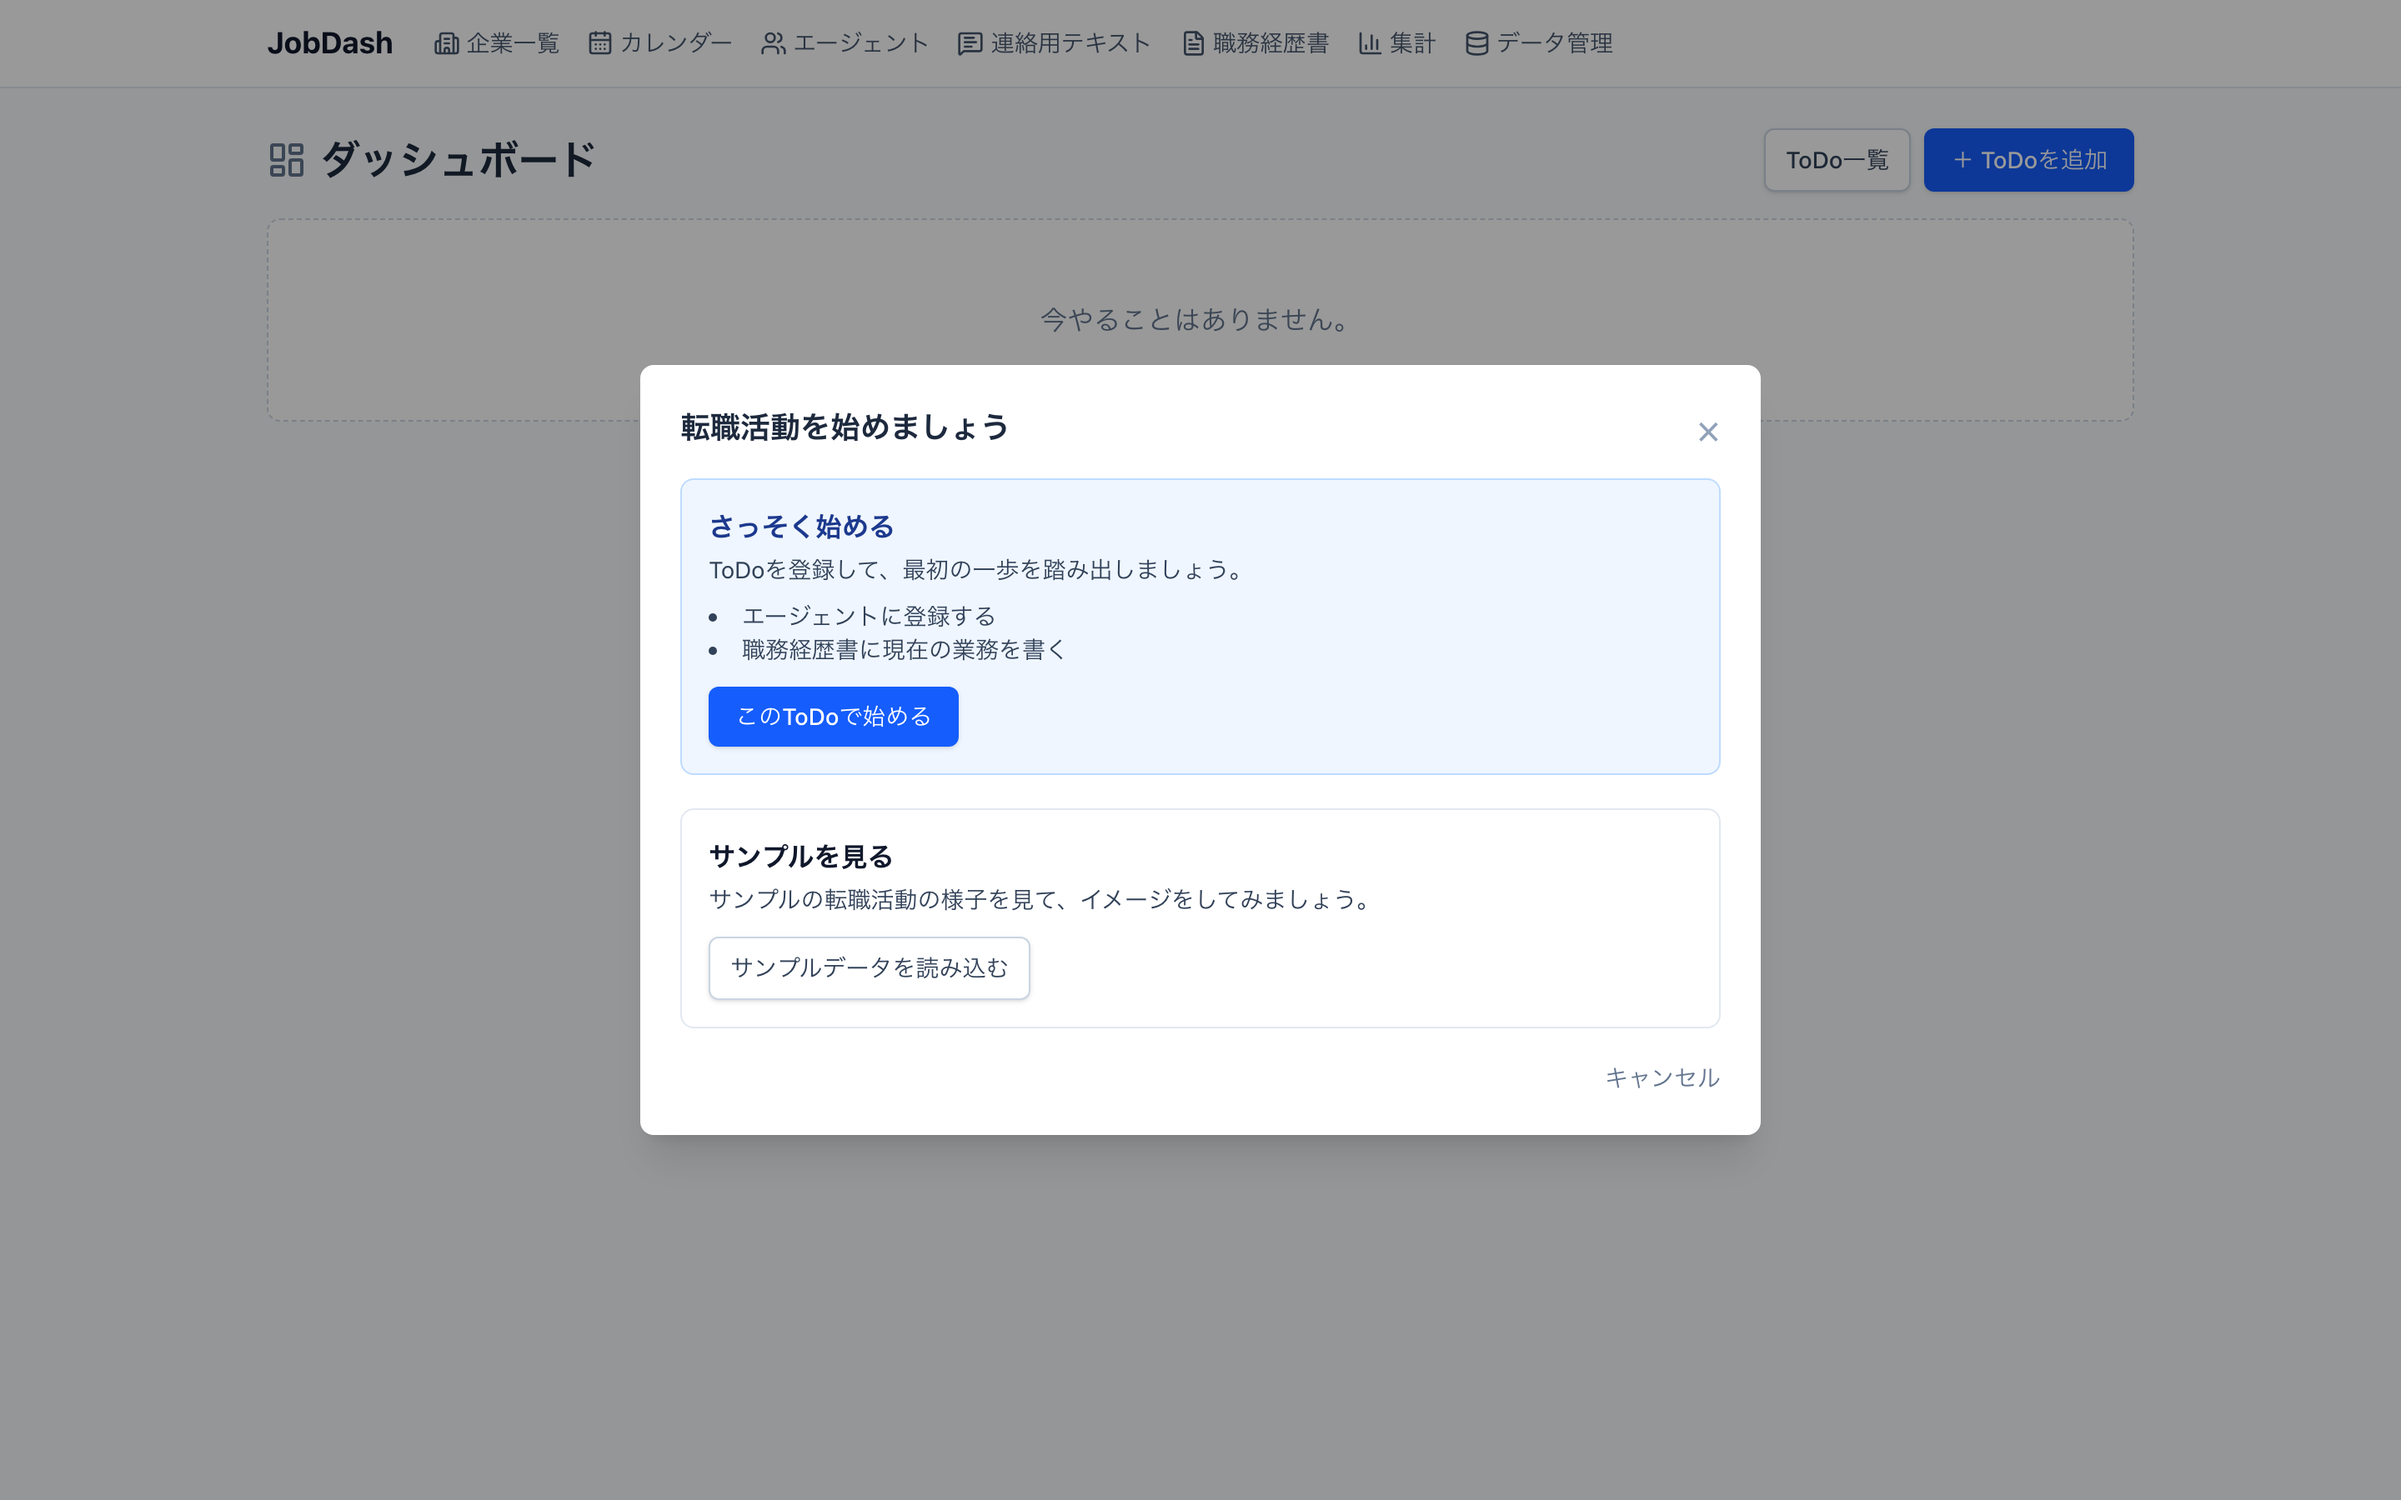
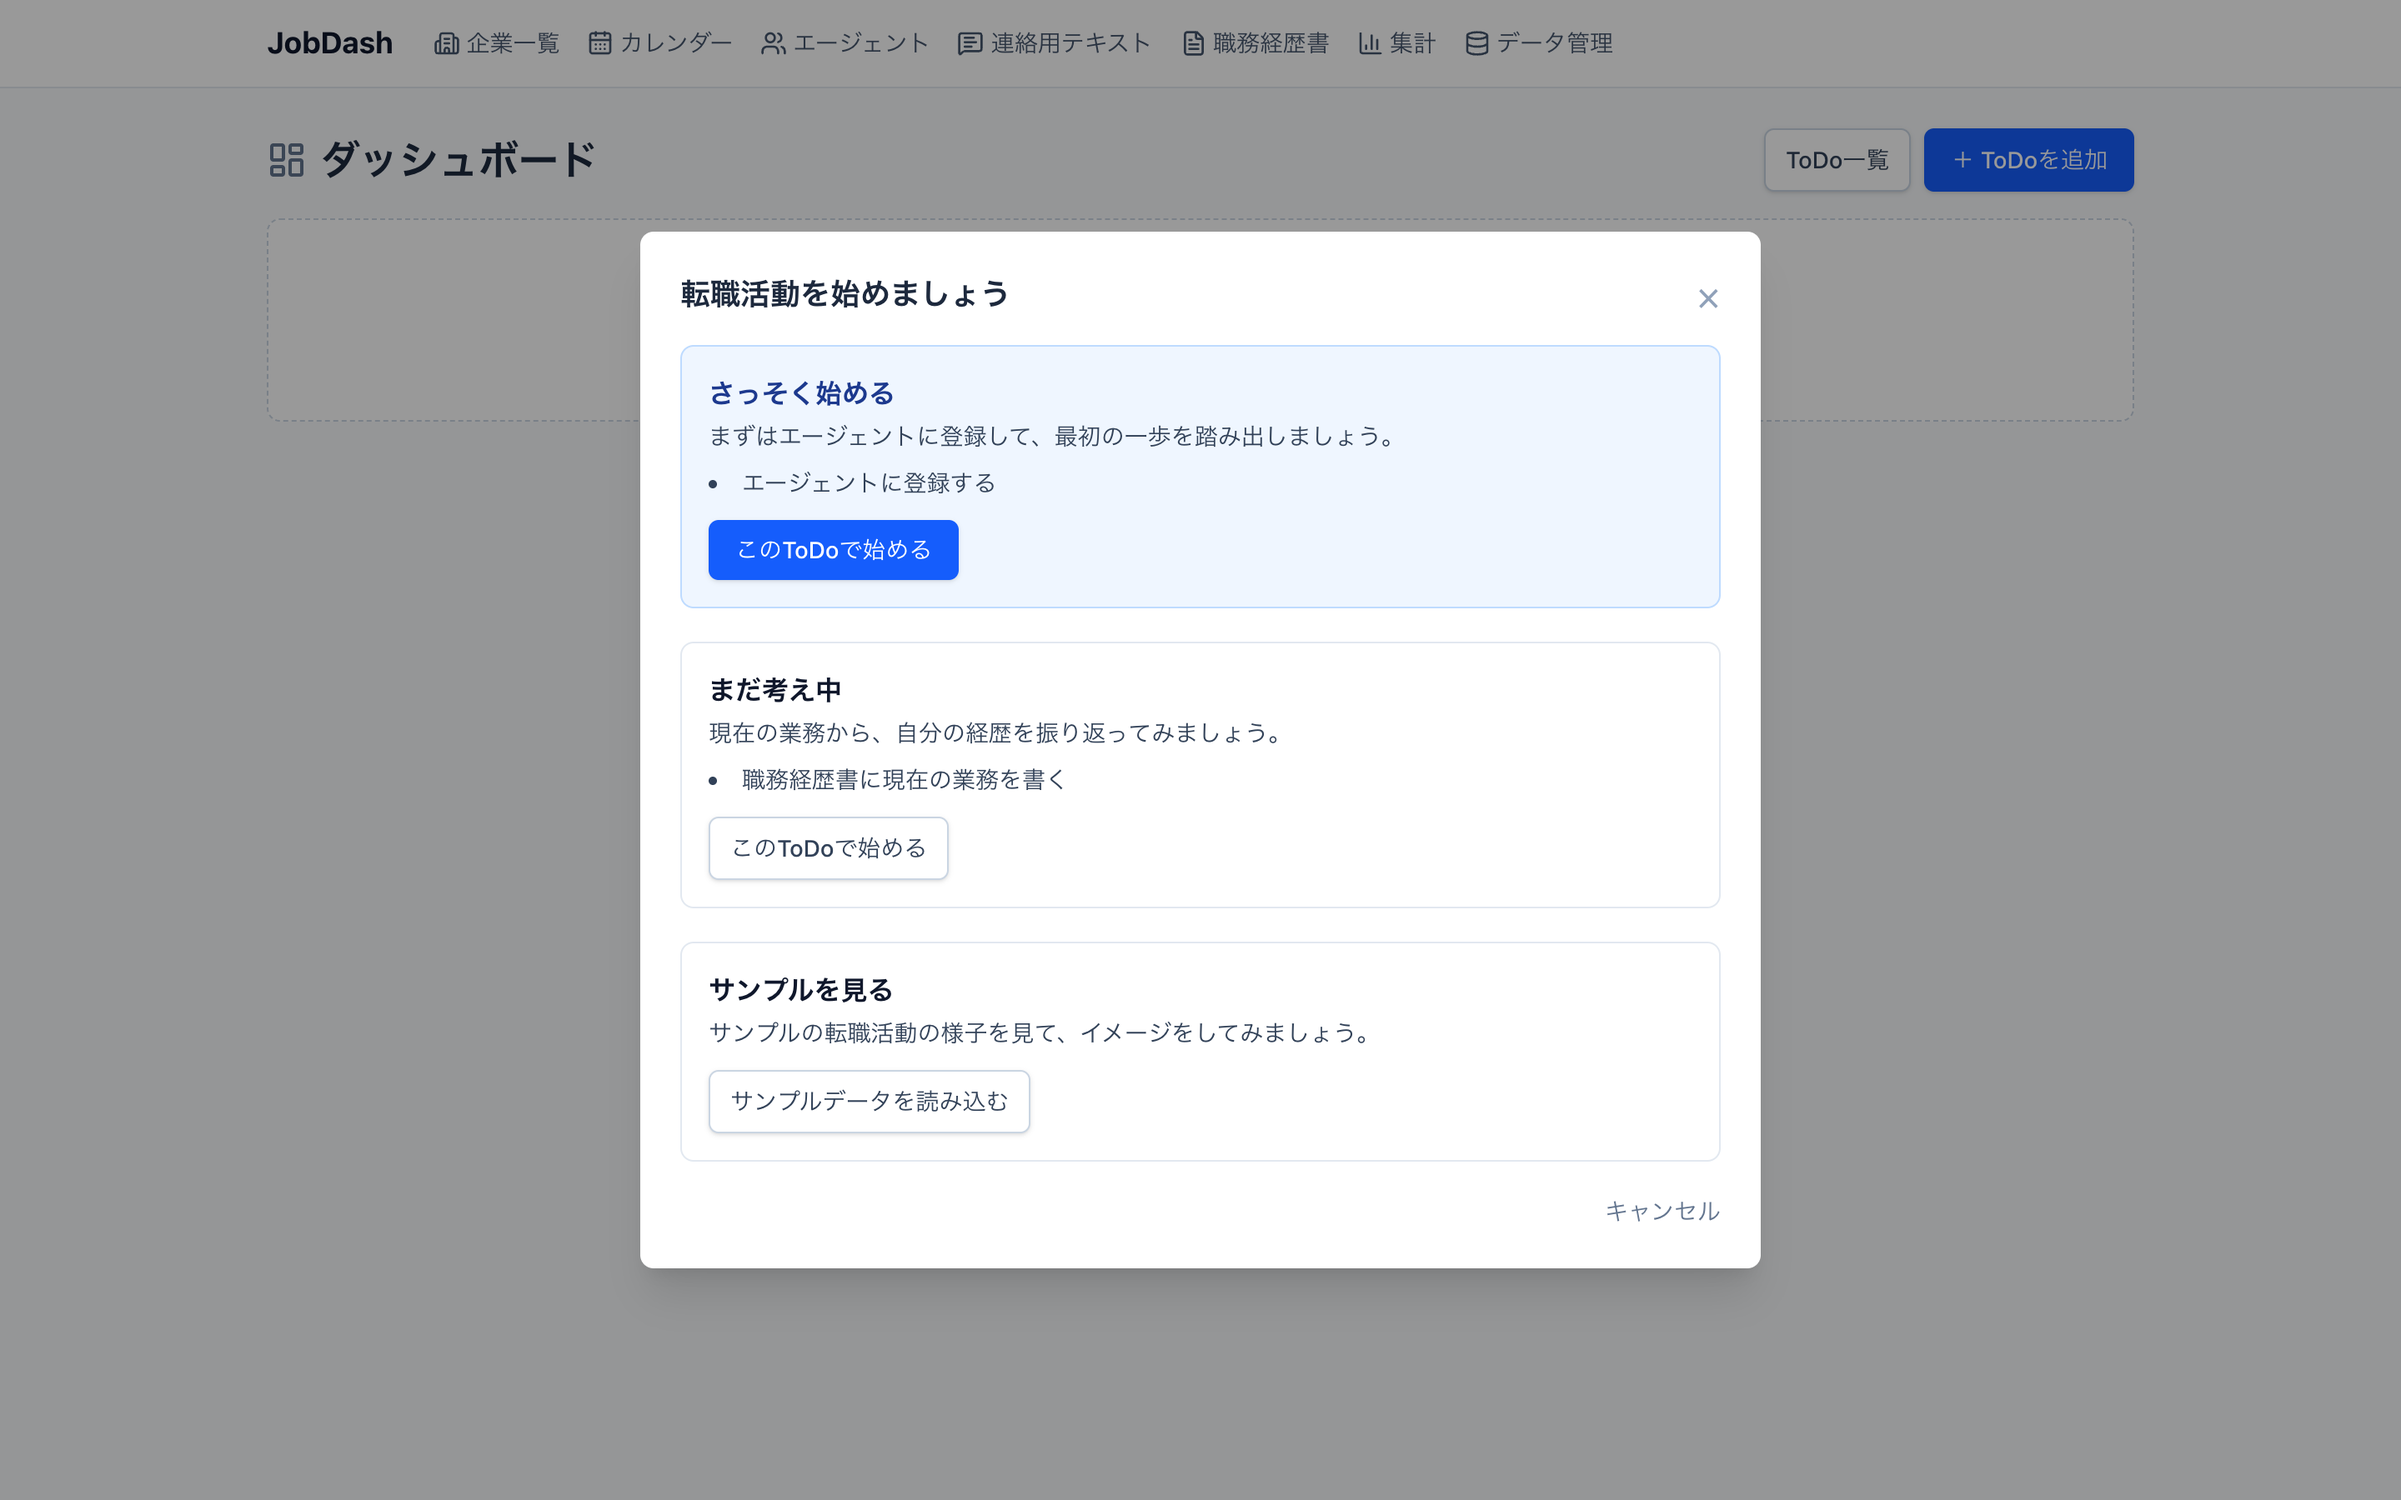
Refresh the landing page for the latest features
- Text: tutorial choices, agent and company Markdown memos, autosave,
  other companies' preferred slots in gray, per-career interview notes,
  compact resume font size; smooth some wording
- Retake all app screenshots from the current sample data

diff --git a/site/index.html b/site/index.html
@@ -108,8 +108,8 @@
                 つの表にまとめます。
               </p>
               <p>
-                はじめて開いたときは「エージェントに登録する」「職務経歴書に現在の業務を書く」の 2 つの ToDo
-                から始められます。架空の 30 社のサンプルデータで、転職活動の全体像を先に眺めることもできます。
+                はじめて開いたときは、すぐに動き出すなら「エージェントに登録する」、まだ迷っているなら「職務経歴書に現在の業務を書く」の
+                ToDo から始められます。架空の 30 社のサンプルデータで、転職活動の全体像を先に眺めることもできます。
               </p>
             </div>
             <figure class="shot">
@@ -126,7 +126,7 @@
                 3 種類を出力でき、タグや面接回数の表示、企業名に「様」を付けるかどうかも切り替えられます。
               </p>
               <p>
-                エージェントごとに担当者の連絡先や ToDo を管理でき、選考フェーズの集計グラフもエージェント別に表示できます。
+                エージェントごとに、担当者の連絡先、ToDo、面談や電話の記録（Markdown のメモ）を管理できます。選考フェーズの集計グラフもエージェント別に表示できます。
               </p>
             </div>
             <figure class="text-sample">
@@ -150,10 +150,10 @@
               <p class="feature-pain">面接の日程調整が大変</p>
               <h3>希望日時はドラッグで選んで、テキストで送る</h3>
               <p>
-                週表示のカレンダーをドラッグして面接の希望日時を選ぶと、エージェントに伝える用の文面ができます。他社の面接はグレーで表示されるので、ダブルブッキングを防げます。
+                週表示のカレンダーをドラッグして面接の希望日時を選ぶと、エージェントに伝える用の文面ができます。他社の面接と希望日時はグレーで表示されるので、ダブルブッキングを防げます。
               </p>
               <p>
-                面接日時が確定したら登録するだけで、その企業の希望日時は自動で片づきます。日付の書式は 4
+                面接日時が確定したら登録するだけで、その企業の希望日時は自動で消えます。日付の書式は 4
                 種類のプリセットから選ぶか、自分で決められます。
               </p>
             </div>
@@ -163,7 +163,7 @@
                   src="images/schedule.png"
                   width="1440"
                   height="900"
-                  alt="日程登録画面。週表示のカレンダーで選んだ3つの希望日時が、右側でエージェント連絡用のテキストになっている"
+                  alt="日程登録画面。週表示のカレンダーで選んだ3つの希望日時が、右側でエージェント連絡用のテキストになっている。他社の面接はグレーで表示されている"
                 />
               </figure>
               <figure class="text-sample">
@@ -183,15 +183,18 @@
                 志望理由、入社後の将来像、逆質問、魅力的な点、不安な点、タグ、面接回数、志望度（★3 段階）を企業ごとに残せます。面接の直前に開くページが
                 1 つで済みます。
               </p>
-              <p>書いた内容は、志望度の高い順に並べてエージェントに伝える文面にもなります。</p>
+              <p>
+                情報収集や面接の記録は、Markdown で書ける企業メモにまとめられます。入力した内容は自動で保存されるので、保存ボタンを押す必要はありません。
+              </p>
+              <p>魅力的な点と不安な点は、志望度の高い順に並べてエージェントに伝える文面にもなります。</p>
             </div>
             <div class="feature-media">
               <figure class="shot">
                 <img
                   src="images/research.png"
                   width="1440"
-                  height="900"
-                  alt="企業研究の入力欄。タグ、面接回数、星3つの総合評価、志望理由、逆質問など"
+                  height="1325"
+                  alt="企業研究の画面。タグ、面接回数、星3つの総合評価、Markdown で書いた企業メモ、魅力的な点と不安な点"
                 />
               </figure>
               <figure class="text-sample">
@@ -210,13 +213,13 @@
 
           <article class="feature">
             <div class="feature-text">
-              <p class="feature-pain">職務経歴書の Word を書くのが大変</p>
+              <p class="feature-pain">Word で職務経歴書を書くのが大変</p>
               <h3>職務経歴書は、項目を埋めるだけ</h3>
               <p>
-                職務要約やプロジェクトごとの担当業務を入力すると、<strong>Word・PDF・Markdown・テキスト</strong>で出力できます。在籍期間は自動で計算します。エージェントごとに提出形式が違っても、出力形式を切り替えるだけで対応できます。
+                職務要約やプロジェクトごとの担当業務を入力すると、<strong>Word・PDF・Markdown・テキスト</strong>で出力できます。在籍期間は自動で計算します。エージェントごとに提出形式が違っても、出力形式を切り替えるだけで対応できます。PDF と Word は文字サイズを小さめにもできます。
               </p>
               <p>
-                プロジェクトで苦労したこと、強み・弱み、転職理由といった面接対策のメモも、同じ画面に書けます。メモは出力には含まれません。
+                プロジェクトで苦労したこと、会社ごとの入社理由・転職理由、強み・弱みといった面接対策のメモも、同じ画面に書けます。メモは出力には含まれません。
               </p>
             </div>
             <figure class="shot">
@@ -224,7 +227,7 @@
                 src="images/resume.png"
                 width="1440"
                 height="1260"
-                alt="職務経歴書の編集画面。プロジェクトごとの入力欄と、出力されない面接対策メモ"
+                alt="職務経歴書の編集画面。会社ごとの入力欄と、出力されない面接対策メモ（入社理由・転職理由）"
               />
             </figure>
           </article>
@@ -234,12 +237,12 @@
               <p class="feature-pain">Excel での管理に疲れた</p>
               <h3>Excel の管理表から、そのまま引っ越せる</h3>
               <p>
-                今使っている管理表（Excel、スプレッドシート、Notion、etc...）から CSV をエクスポートして、JobDash に取り込めます。項目名が違っても、取り込み時に対応付けが可能です。
+                今使っている管理表（Excel、スプレッドシート、Notion など）から CSV をエクスポートして、JobDash に取り込めます。列名や値の書き方が違っても、取り込むときに対応付けられます。
               </p>
               <ol class="steps-inline">
                 <li>CSV ファイルを選択する</li>
                 <li>列を対応付ける（企業名、エージェント、URL、選考フェーズなど）</li>
-                <li>選択項目を対応付ける（「一次面接」「1次」のような表記の揺れも吸収）</li>
+                <li>選考フェーズなどの値を対応付ける（「1次面接」のような表記の揺れは自動で判定）</li>
                 <li>行ごとのエラーや登録済みの同名企業をプレビューで確かめて、取り込み実行</li>
               </ol>
               <p>
@@ -250,7 +253,7 @@
               <img
                 src="images/csv-import.png"
                 width="1440"
-                height="1090"
+                height="1104"
                 alt="CSV インポートの値の対応付けとプレビュー。「1次面接」は一次面接に自動で対応付けられ、対応先のない「カジュアル面談」の行はエラーとして取り込み対象から外れている"
               />
             </figure>
